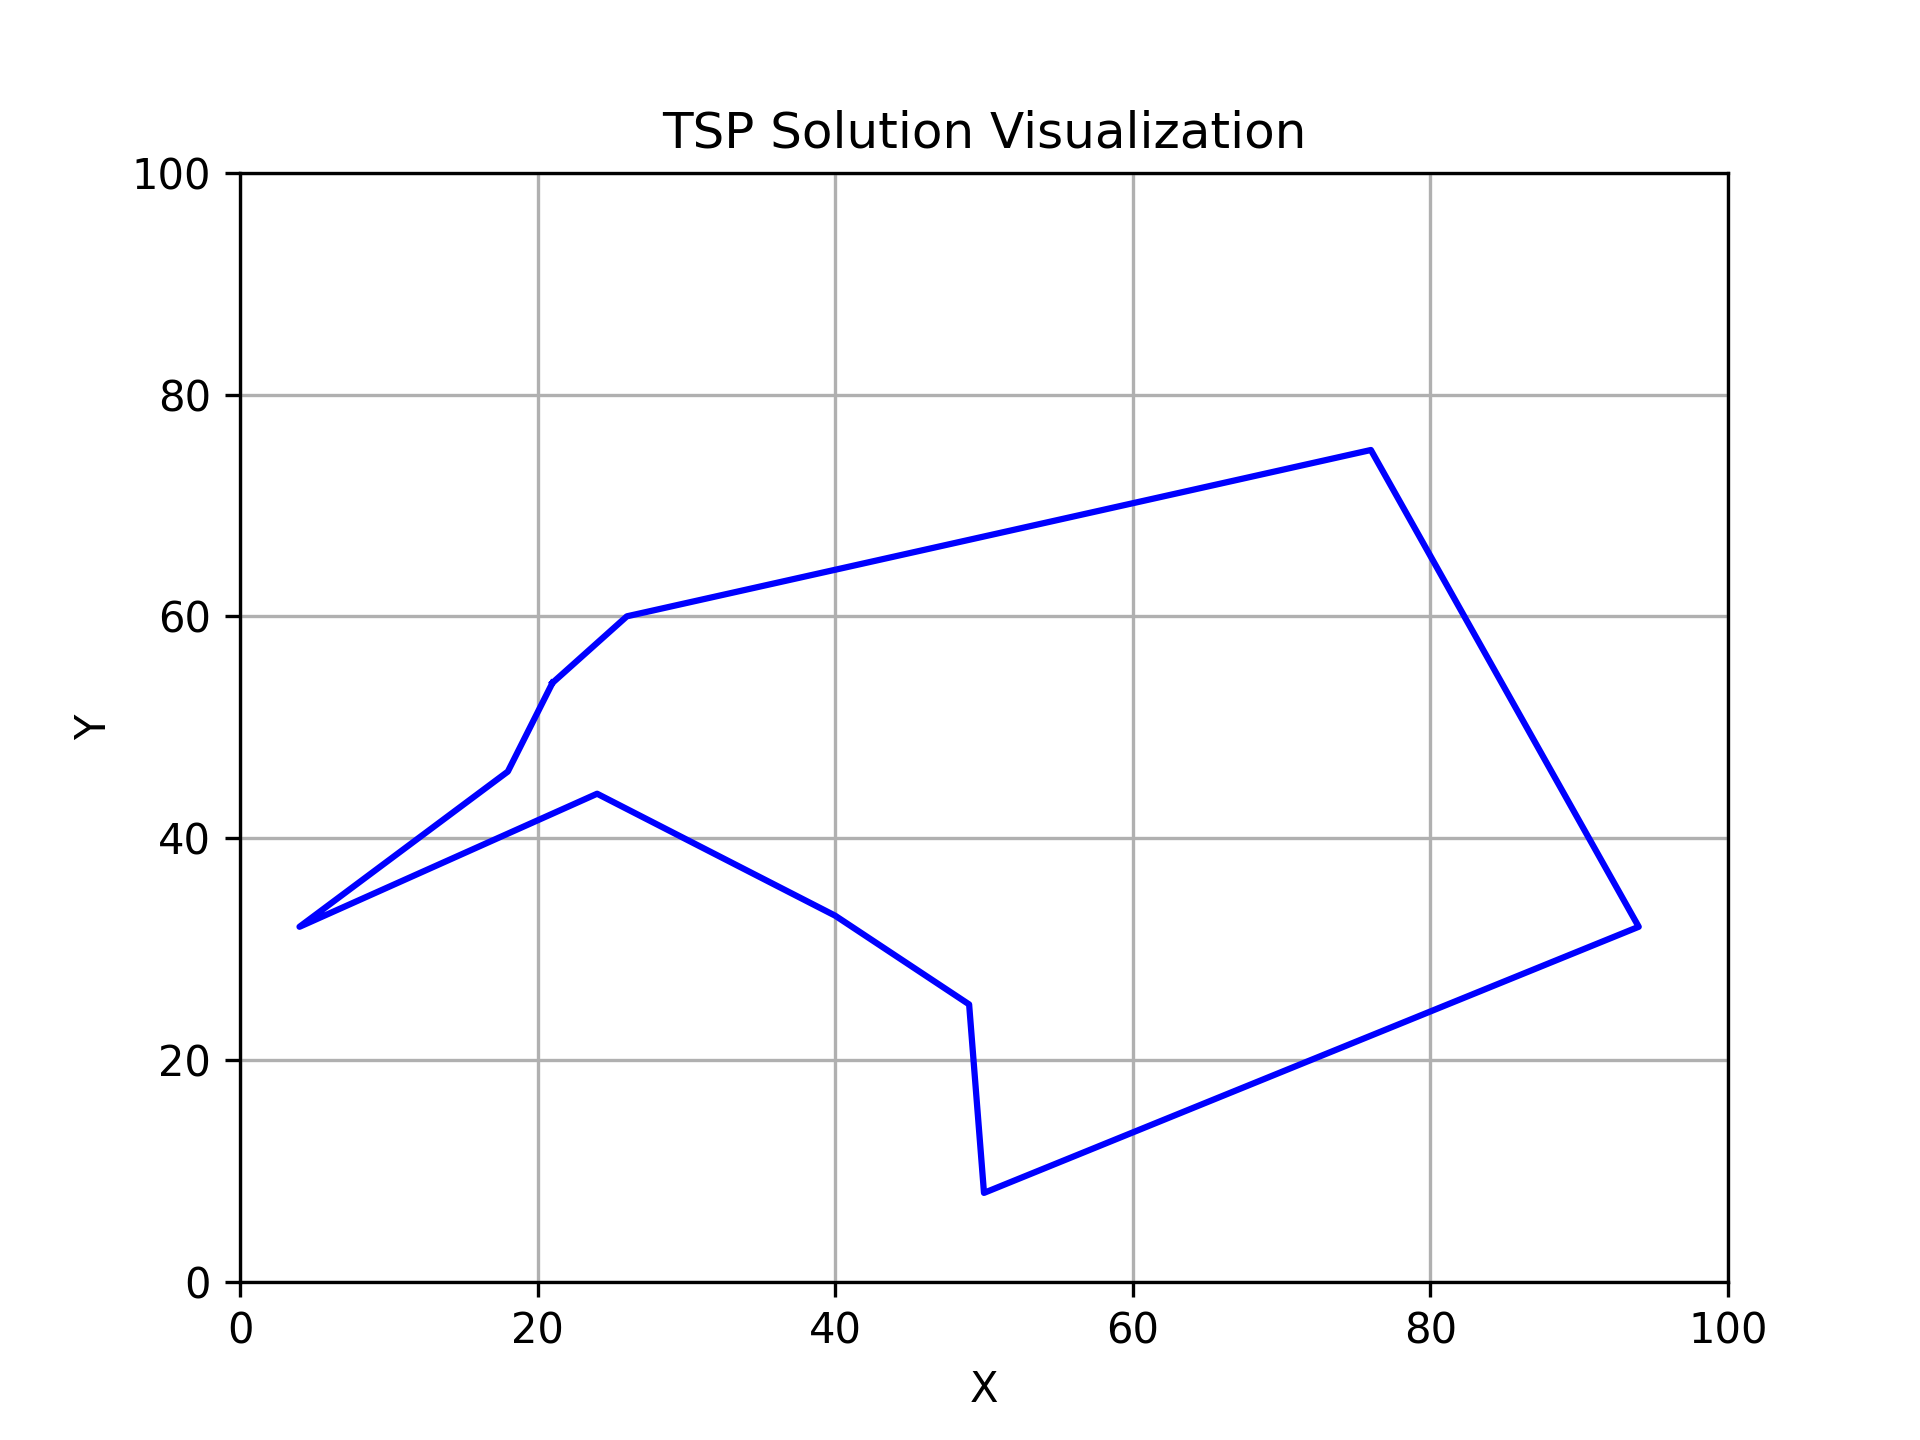
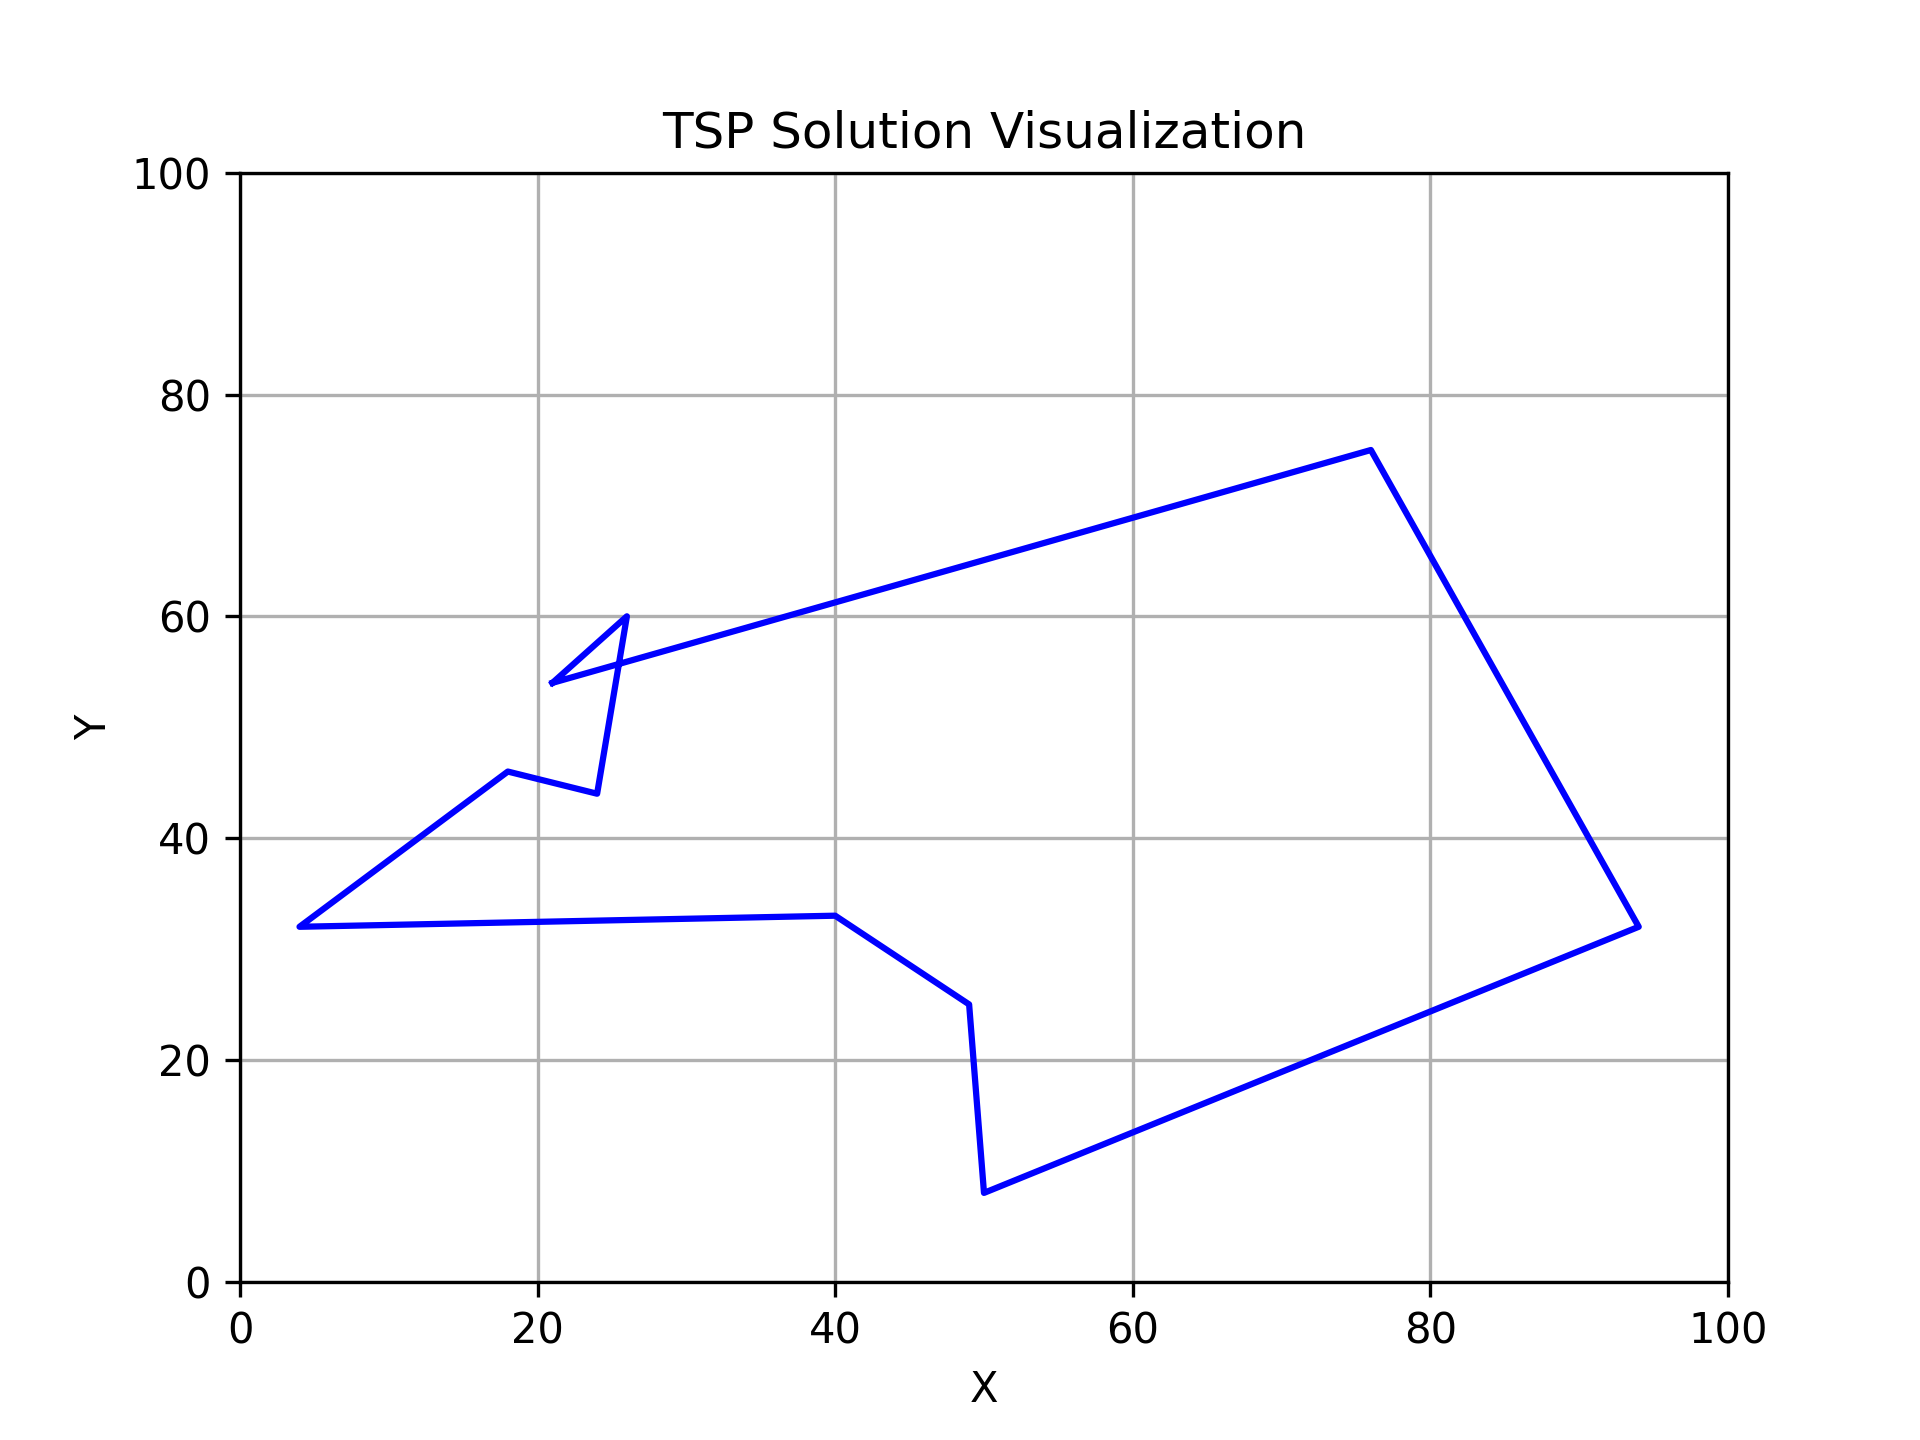
Greedy Algorithm implementation

diff --git a/Homework2/B123040004_hw2.cpp b/Homework2/B123040004_hw2.cpp
@@ -3,6 +3,7 @@
 #include<vector>
 #include<cmath>
 #include<climits>
+#include<algorithm>
 using namespace std;
 
 class Point {
@@ -21,16 +22,51 @@ class Point {
 class TSP {
     public:
         TSP() {
-            MinDistance = 1000000;
+            MinDistance = INT_MAX;
         }
-        
         void Greedy(vector<Point> &cities, vector<Point> &visited, double distance, Point StartPoint) {
-        
+            // Link the last point to the start point
+            if (visited.size() == cities.size()) {
+                distance += Distance(visited.back(), StartPoint);
+                if (distance < MinDistance) {
+                    MinDistance = distance;
+                    MinDistanceResult = visited;
+                }
+                return;
+            }
+            // Greedy to find the nearest point
+            double two_point_mindistance = INT_MAX;
+            Point nearest_point;
+            for (auto &var : cities) {
+                if (Find(var, visited)) continue;
+                double newDistance = Distance(visited.back(), var);
+                if (newDistance < two_point_mindistance) {
+                    two_point_mindistance = newDistance;
+                    nearest_point = var;   
+                }
+            }
+            visited.push_back(nearest_point);
+            Greedy(cities, visited, distance + two_point_mindistance, StartPoint);
         }
+
+        /// @brief 
+        /// @param point 
+        /// @param visited 
+        /// @return if the point is in the visited vector
+        bool Find(Point point, vector<Point> &visited) {
+            for (auto &var : visited) {
+                if (var.PointNumber == point.PointNumber) return true;
+            }
+            return false;
+        }
+
+        double Distance(Point &a, Point &b) {
+            return sqrt(pow((a.X - b.X), 2) + pow((a.Y - b.Y), 2));
+        }
+
         double GetMinDistance() {
             return MinDistance;
         }   
-
         vector<Point> GetMinDistanceResult() {
             return MinDistanceResult;
         }
@@ -67,6 +103,12 @@ int main( ) {
 
     // implement tsp
     TSP tsp;
+    // try each point as the start point
+    for (auto &var : cities) {
+        vector<Point> visited;
+        visited.push_back(var);
+        tsp.Greedy(cities, visited, 0, var);
+    }
     double minDistance = tsp.GetMinDistance();
     vector<Point> minPermResult = tsp.GetMinDistanceResult();
     
